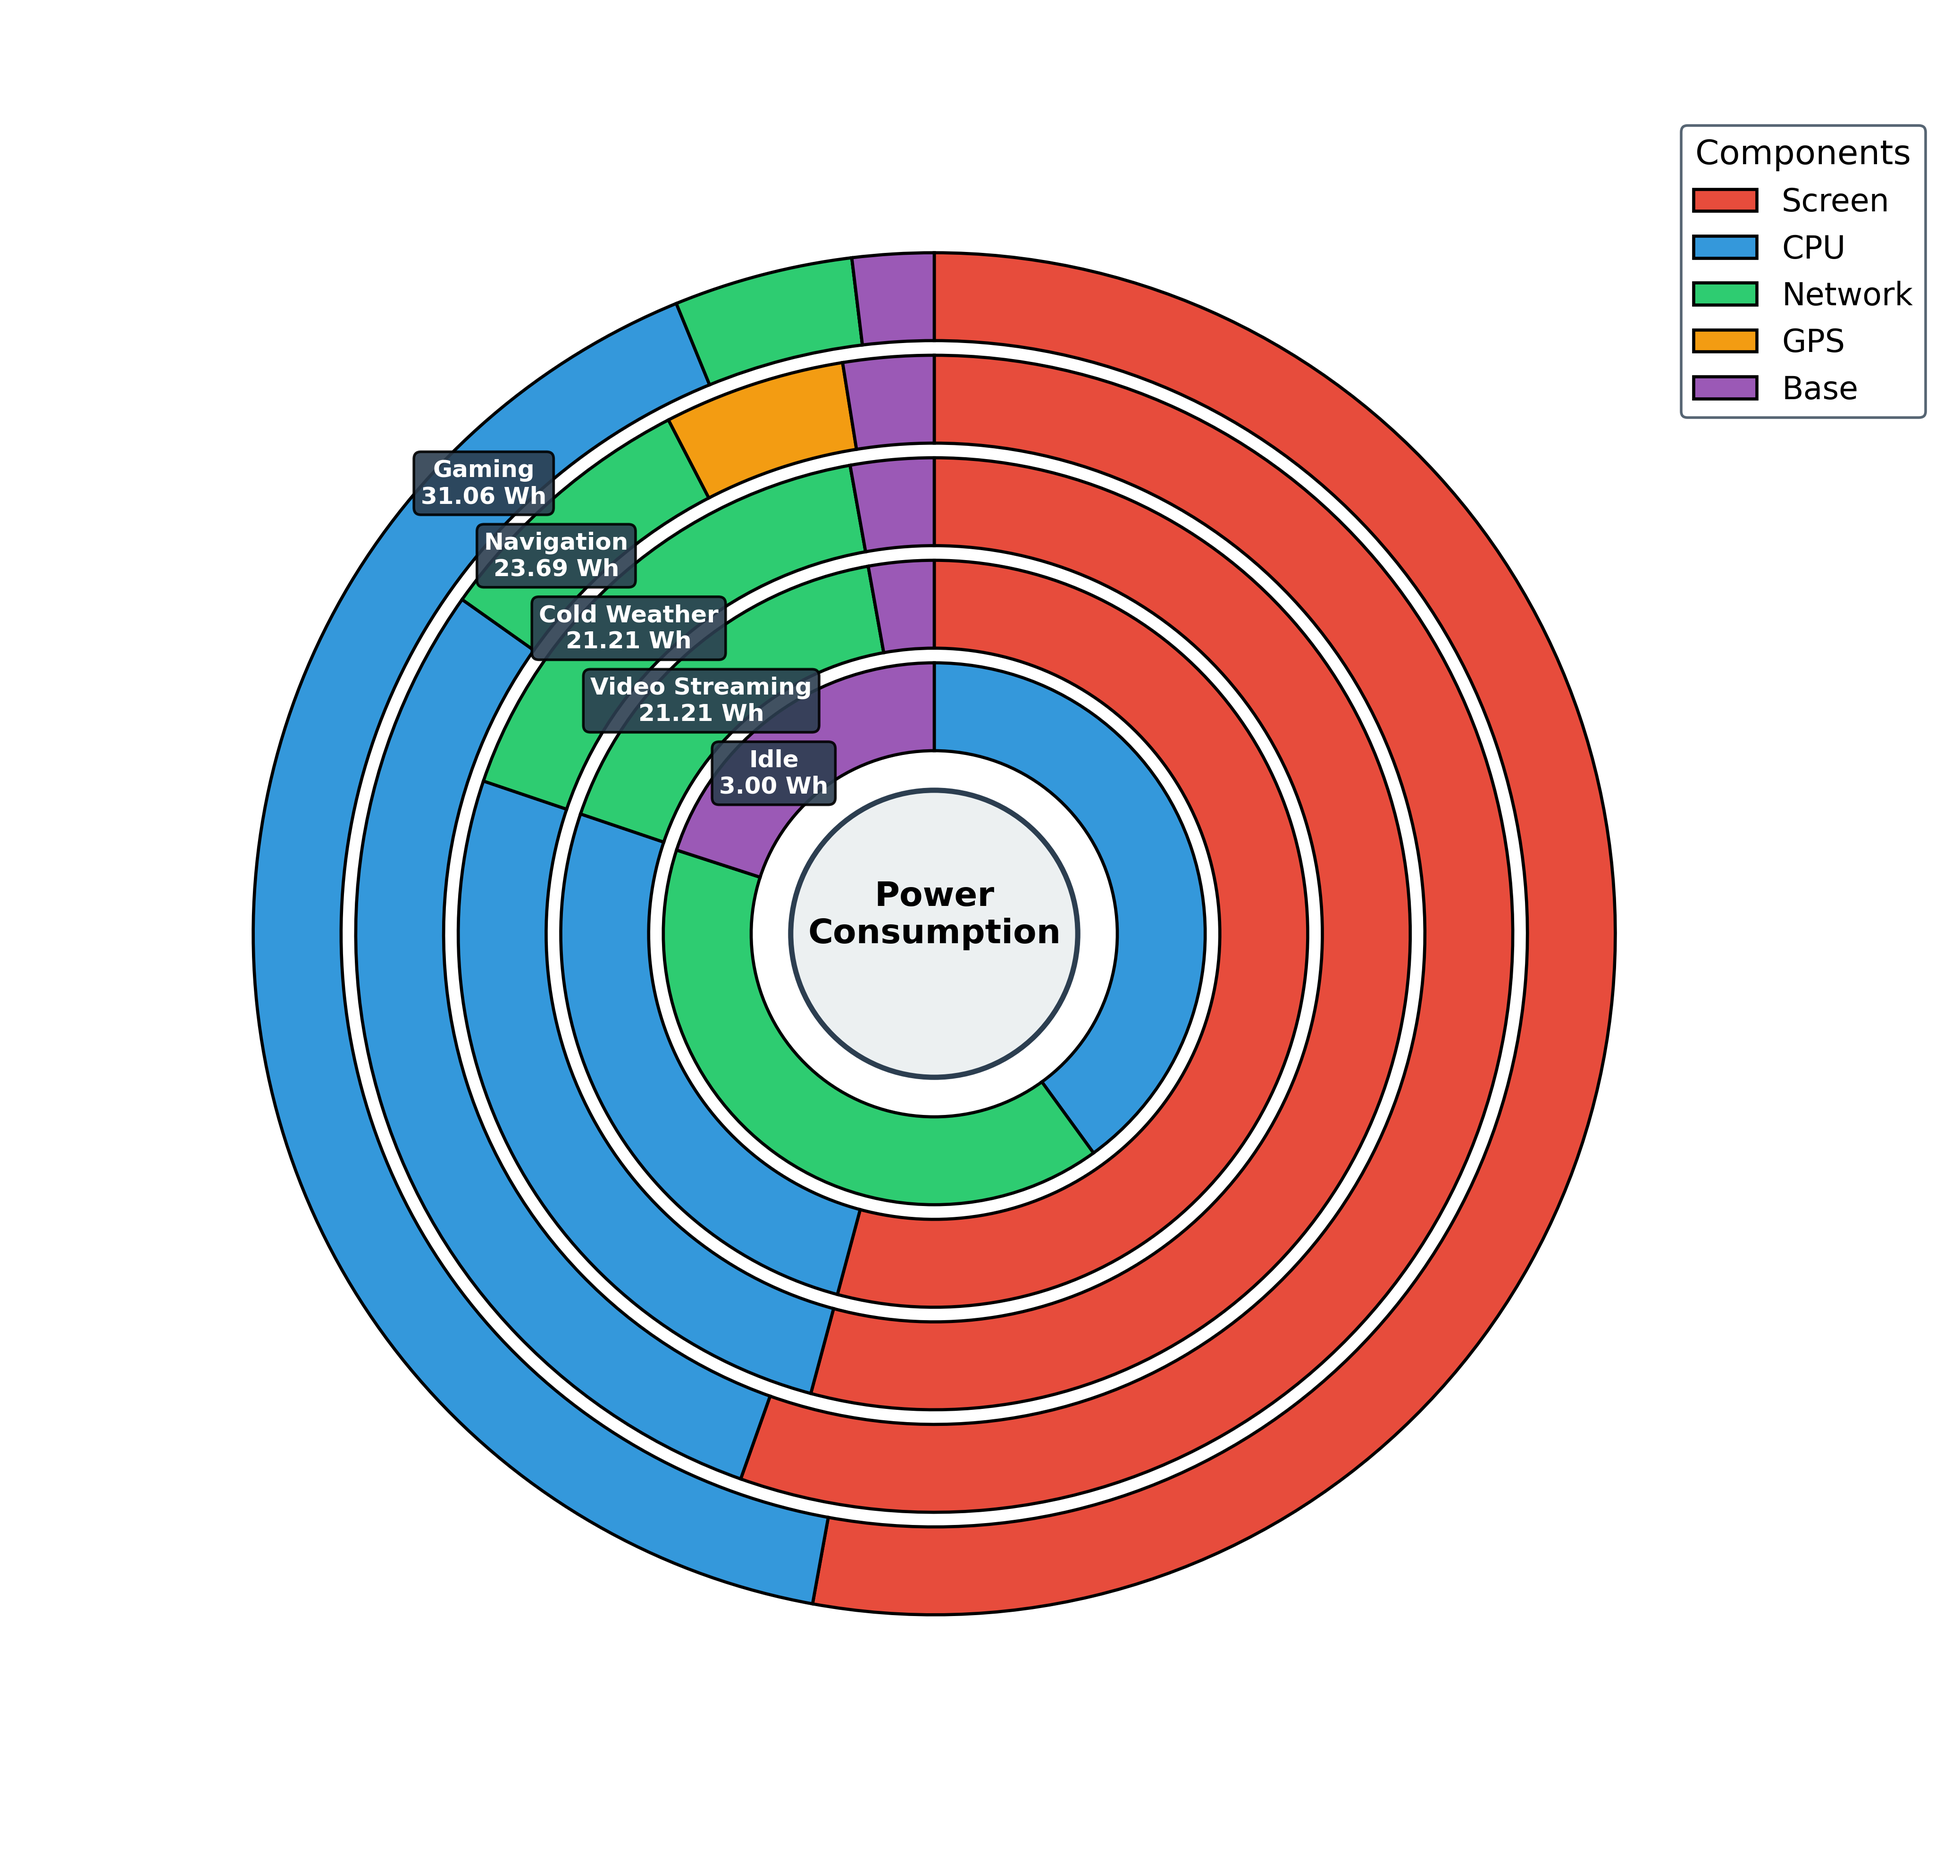
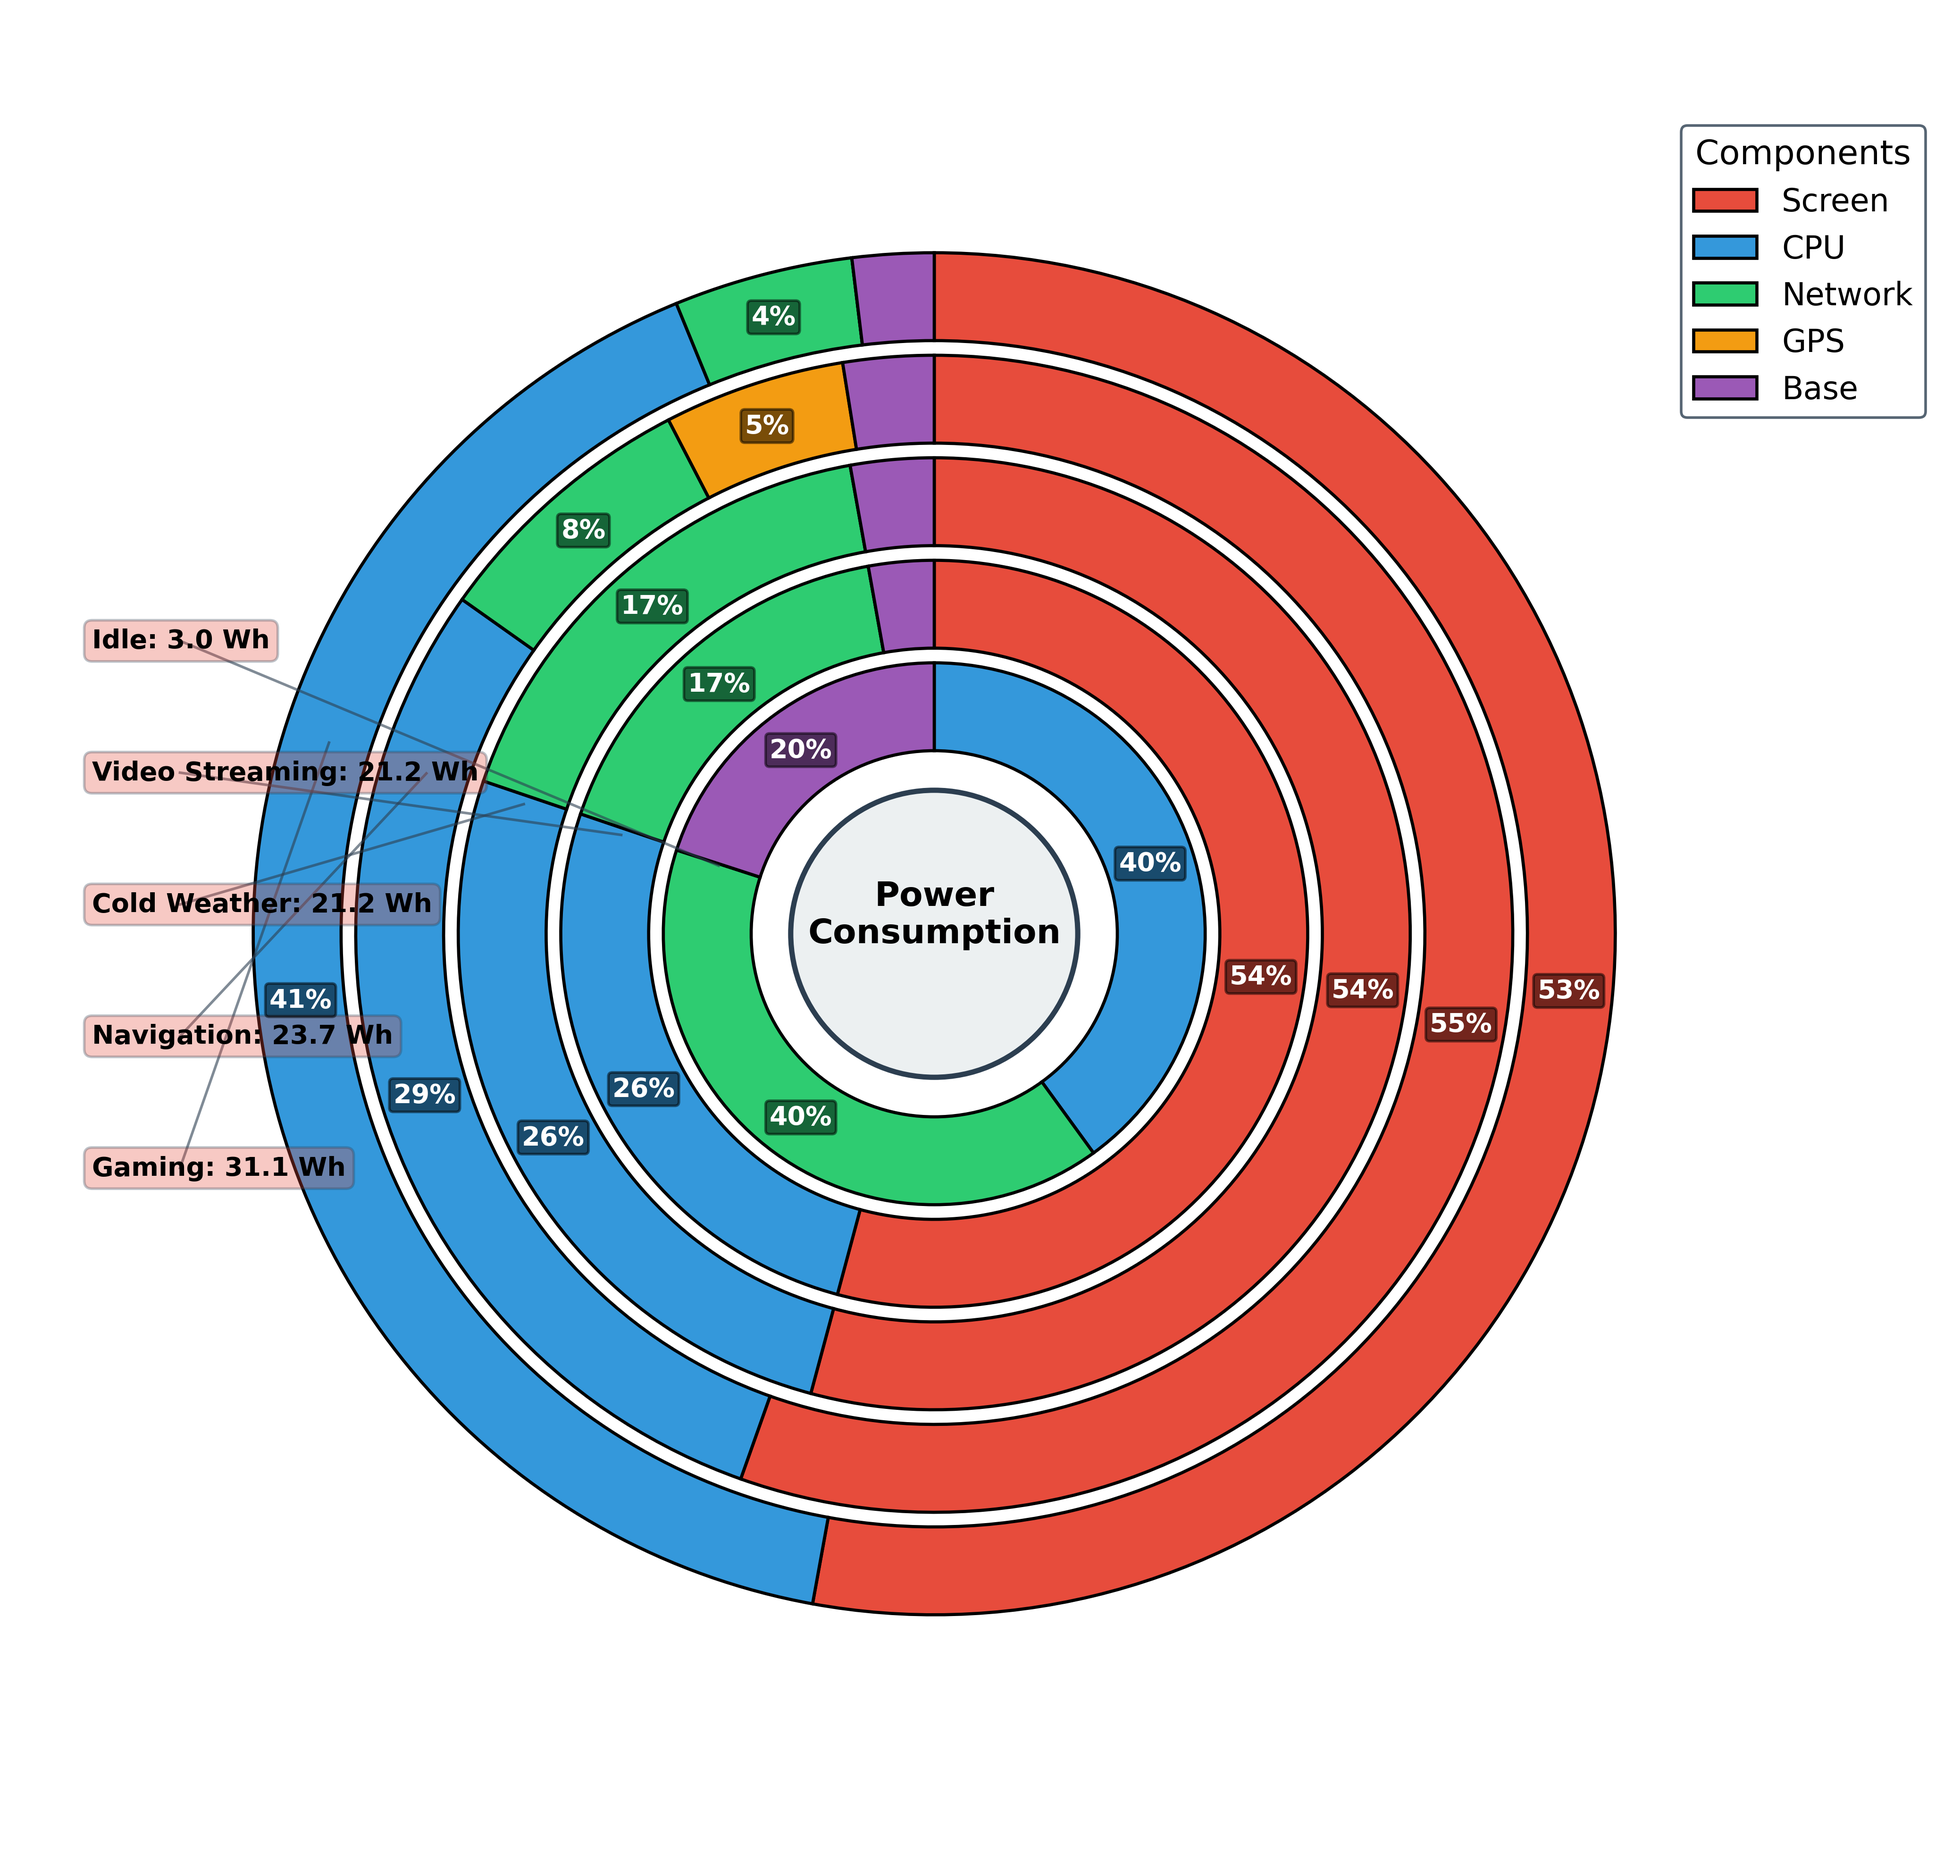
modify

diff --git a/问题2/power_analysis.py b/问题2/power_analysis.py
@@ -139,21 +139,57 @@ def plot_nested_donut(results):
             counterclock=False
         )
         
-        # Add scenario label
+        # Add percentage labels on each segment
+        # Calculate angles for each segment
+        total_val = sum(values)
+        cumsum = 0
+        for j, (wedge, val) in enumerate(zip(wedges, values)):
+            if val / total_val < 0.03:  # Skip very small segments (<3%)
+                cumsum += val
+                continue
+            
+            # Calculate midpoint angle of wedge
+            pct = val / total_val
+            mid_angle = 90 - (cumsum + val / 2) / total_val * 360  # degrees
+            mid_rad = np.radians(mid_angle)
+            
+            # Position at middle of ring
+            r = inner_radius + width / 2
+            x_pct = r * np.cos(mid_rad)
+            y_pct = r * np.sin(mid_rad)
+            
+            # Add percentage text
+            ax.text(x_pct, y_pct, f'{pct*100:.0f}%',
+                   ha='center', va='center',
+                   fontsize=10, fontweight='bold', color='white',
+                   bbox=dict(boxstyle='round,pad=0.15', facecolor='black', alpha=0.5))
+            
+            cumsum += val
+        
+        # Add scenario label - moved to LEFT side with connection line
         label_radius = inner_radius + width / 2
-        label_angle = 135
-        x = label_radius * np.cos(np.radians(label_angle))
-        y = label_radius * np.sin(np.radians(label_angle))
+        
+        # Position labels on the left side, stacked vertically
+        x_label = -1.15  # Fixed x position on left
+        y_label = 0.4 - i * 0.18  # Stack vertically
+        
+        # Connection point on the ring (left side)
+        x_ring = -label_radius * 0.95
+        y_ring = label_radius * 0.3
+        
+        # Draw connection line
+        ax.plot([x_label + 0.12, x_ring], [y_label, y_ring], 
+                color='#2C3E50', linewidth=1, linestyle='-', alpha=0.6)
         
         ax.annotate(
-            f'{scenario_name}\n{total:.2f} Wh',
-            xy=(x, y),
-            fontsize=9,
+            f'{scenario_name}: {total:.1f} Wh',
+            xy=(x_label, y_label),
+            fontsize=10,
             fontweight='bold',
-            ha='center',
+            ha='left',
             va='center',
-            color='white',
-            bbox=dict(boxstyle='round,pad=0.3', facecolor='#2C3E50', alpha=0.9)
+            color='black',
+            bbox=dict(boxstyle='round,pad=0.3', facecolor=ring_colors[0], alpha=0.3, edgecolor='#2C3E50')
         )
     
     # Center text
